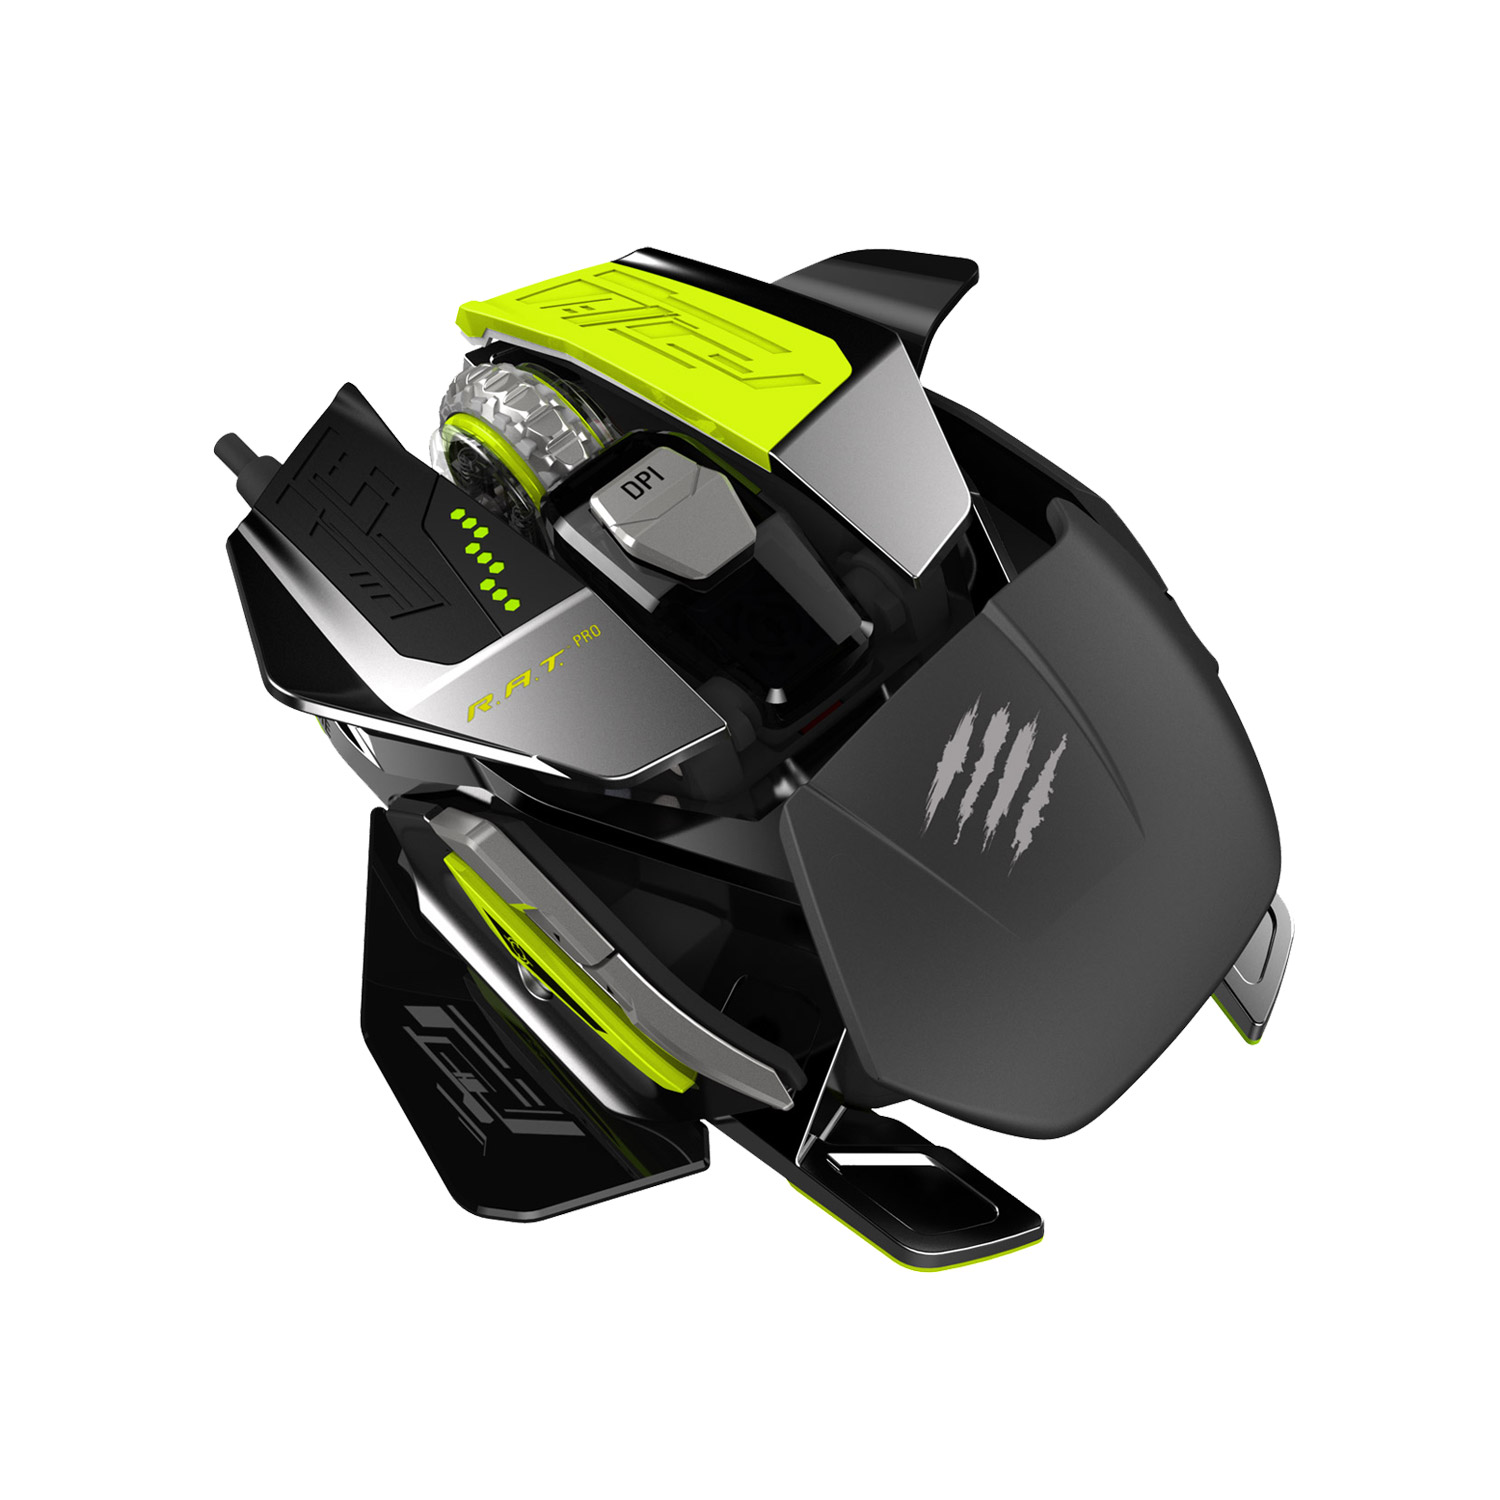
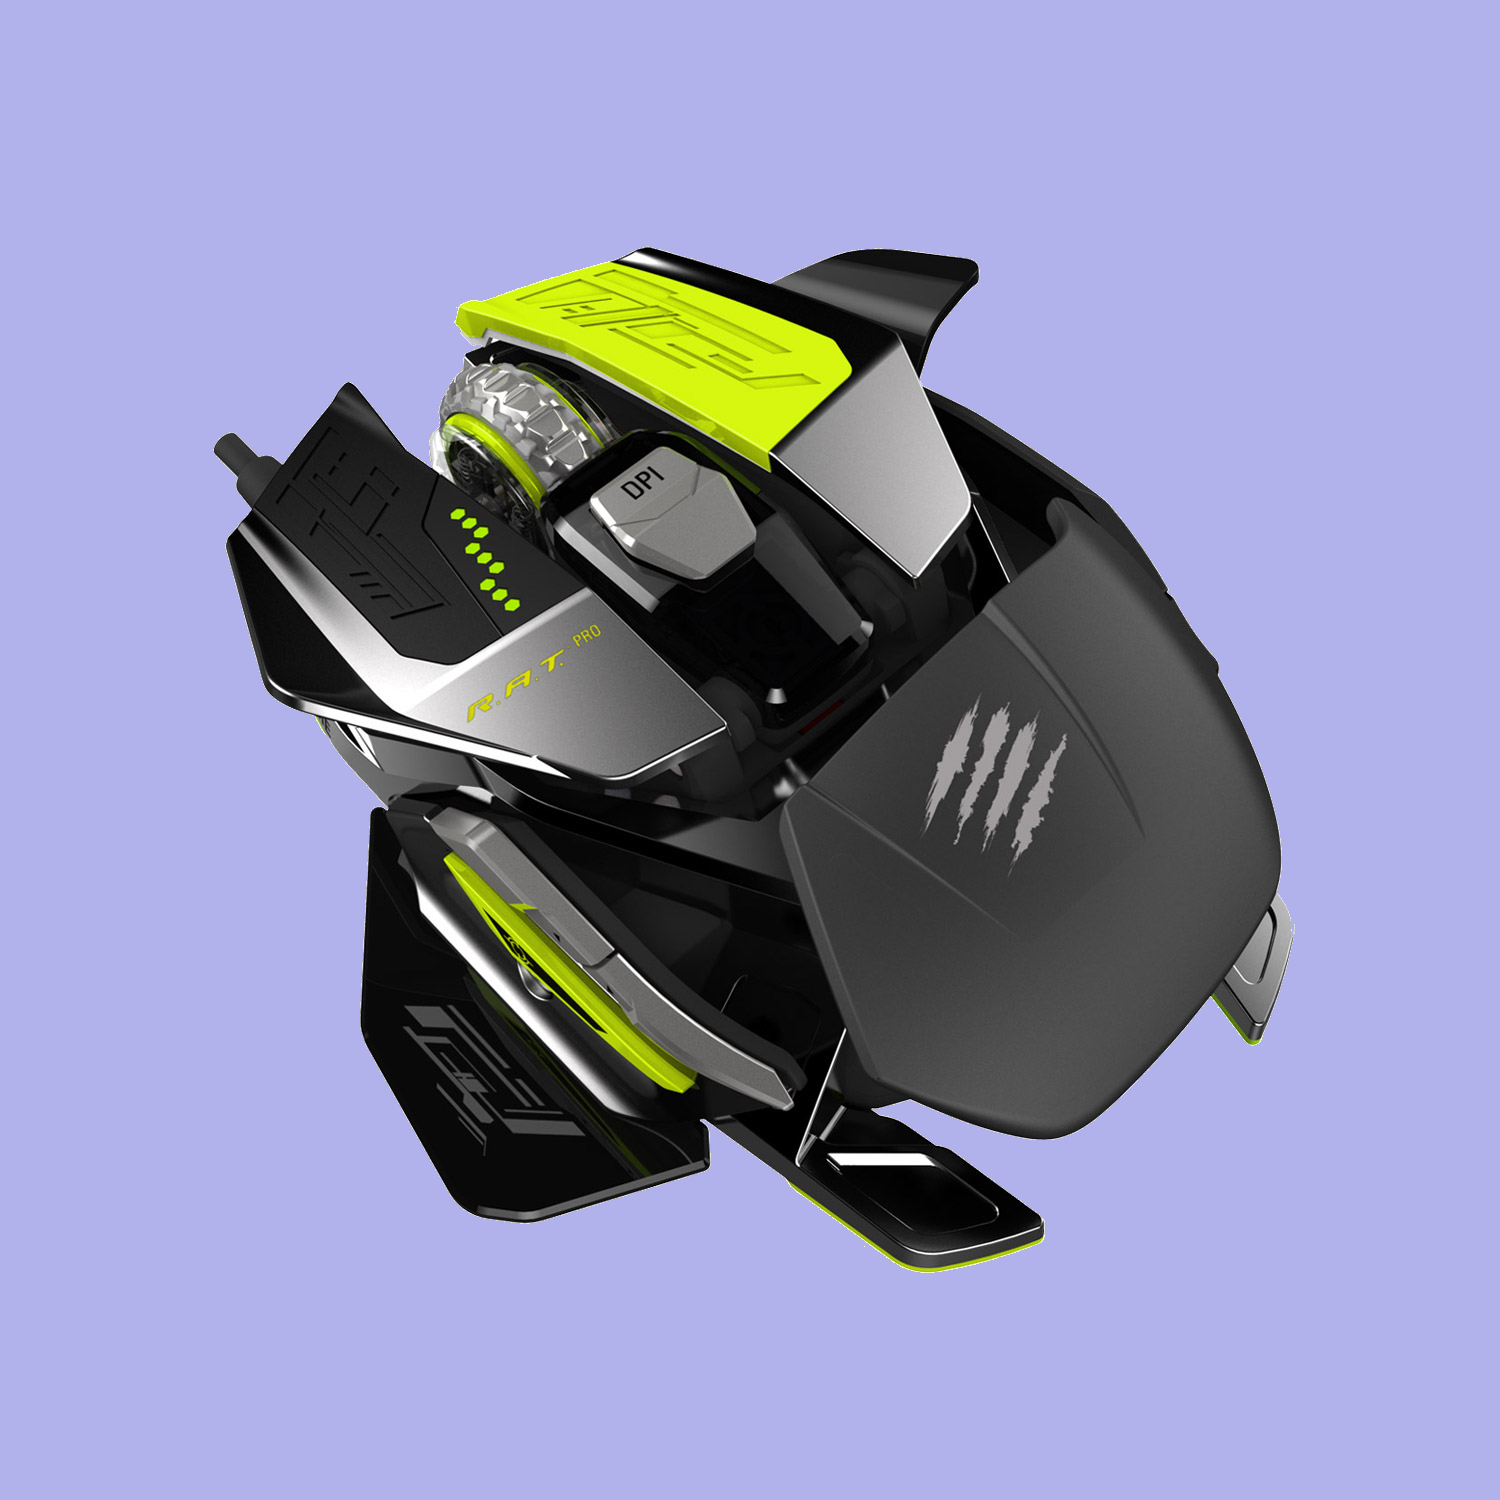
finished home page

diff --git a/style.css b/style.css
@@ -7,13 +7,15 @@
 /*Header part */
 body
 {
-  background-color: lightgrey;
+  background-color: #1A1A42;
 }
 
 header
 {
-  background-color: orange;
+  background-image: url(image/sky.png);
   padding-bottom: 50px;
+  border-style: solid;
+  border-radius: 10px;
 }
 
 header img
@@ -27,6 +29,7 @@ h1
   font-family: "gameplay", sans-serif;
   vertical-align: middle;
   float: left;
+  color: black;
 }
 
 .accueil, .entete
@@ -46,7 +49,7 @@ h1
 .perso a
 {
   text-decoration: none;
-  color: black
+  color: black;
 }
 
 .accueil
@@ -75,10 +78,10 @@ article
 {
   height: 550px;
   width: 400px;
-  border-style: double;
+  border-style: solid;
   border-radius: 5px;
   margin-left: 130px;
-  background-color: white;
+  background-color: #B1B1EC;
 }
 
 .predator h3
@@ -120,9 +123,9 @@ article
 {
   height: 550px;
   width: 400px;
-  border-style: double;
+  border-style: solid;
   border-radius: 5px;
-  background-color: white;
+  background-color: #B1B1EC;
 }
 
 .madcatz h3
@@ -164,9 +167,9 @@ article
 {
   height: 550px;
   width: 400px;
-  border-style: double;
+  border-style: solid;
   border-radius: 5px;
-  background-color: white;
+  background-color: #B1B1EC;
 }
 
 .rogkb h3
@@ -201,3 +204,43 @@ article
   font-weight: bold;
 }
 /*Rogkb part*/
+
+/*Footer part*/
+footer
+{
+  background-image: url(image/sky.png);
+  padding-bottom: 50px;
+  border-style: solid;
+  border-radius: 10px;
+  margin-top: 20px;
+}
+
+.whoarewe
+{
+  float: right;
+  vertical-align: middle;
+  font-family: "gameplay";
+  font-size: 17px;
+  margin: 20px 20px 0px 0px;
+}
+
+.whoarewe a
+{
+  text-decoration: none;
+  color: black;
+}
+
+.contact
+{
+  float: left;
+  vertical-align: middle;
+  font-family: "gameplay";
+  font-size: 17px;
+  margin: 20px 20px 0px 20px;
+}
+
+.contact a
+{
+  text-decoration: none;
+  color: black;
+}

diff --git a/index.html b/index.html
@@ -47,8 +47,12 @@
 <!-- ~~~~~~~~~~~~~~~~~~~~~~~~~ -->
 <!-- Footer part  -->
 <footer>
-  <a href="#">Qui sommes-nous ?</a>
-  <a href="#">Contact</a>
+  <div class="whoarewe">
+    <a href="#">Qui sommes-nous ?</a>
+  </div>
+  <div class="contact">
+    <a href="#">Contact</a>
+  </div>
 </footer>
 <!-- Footer part  -->
   </body>
